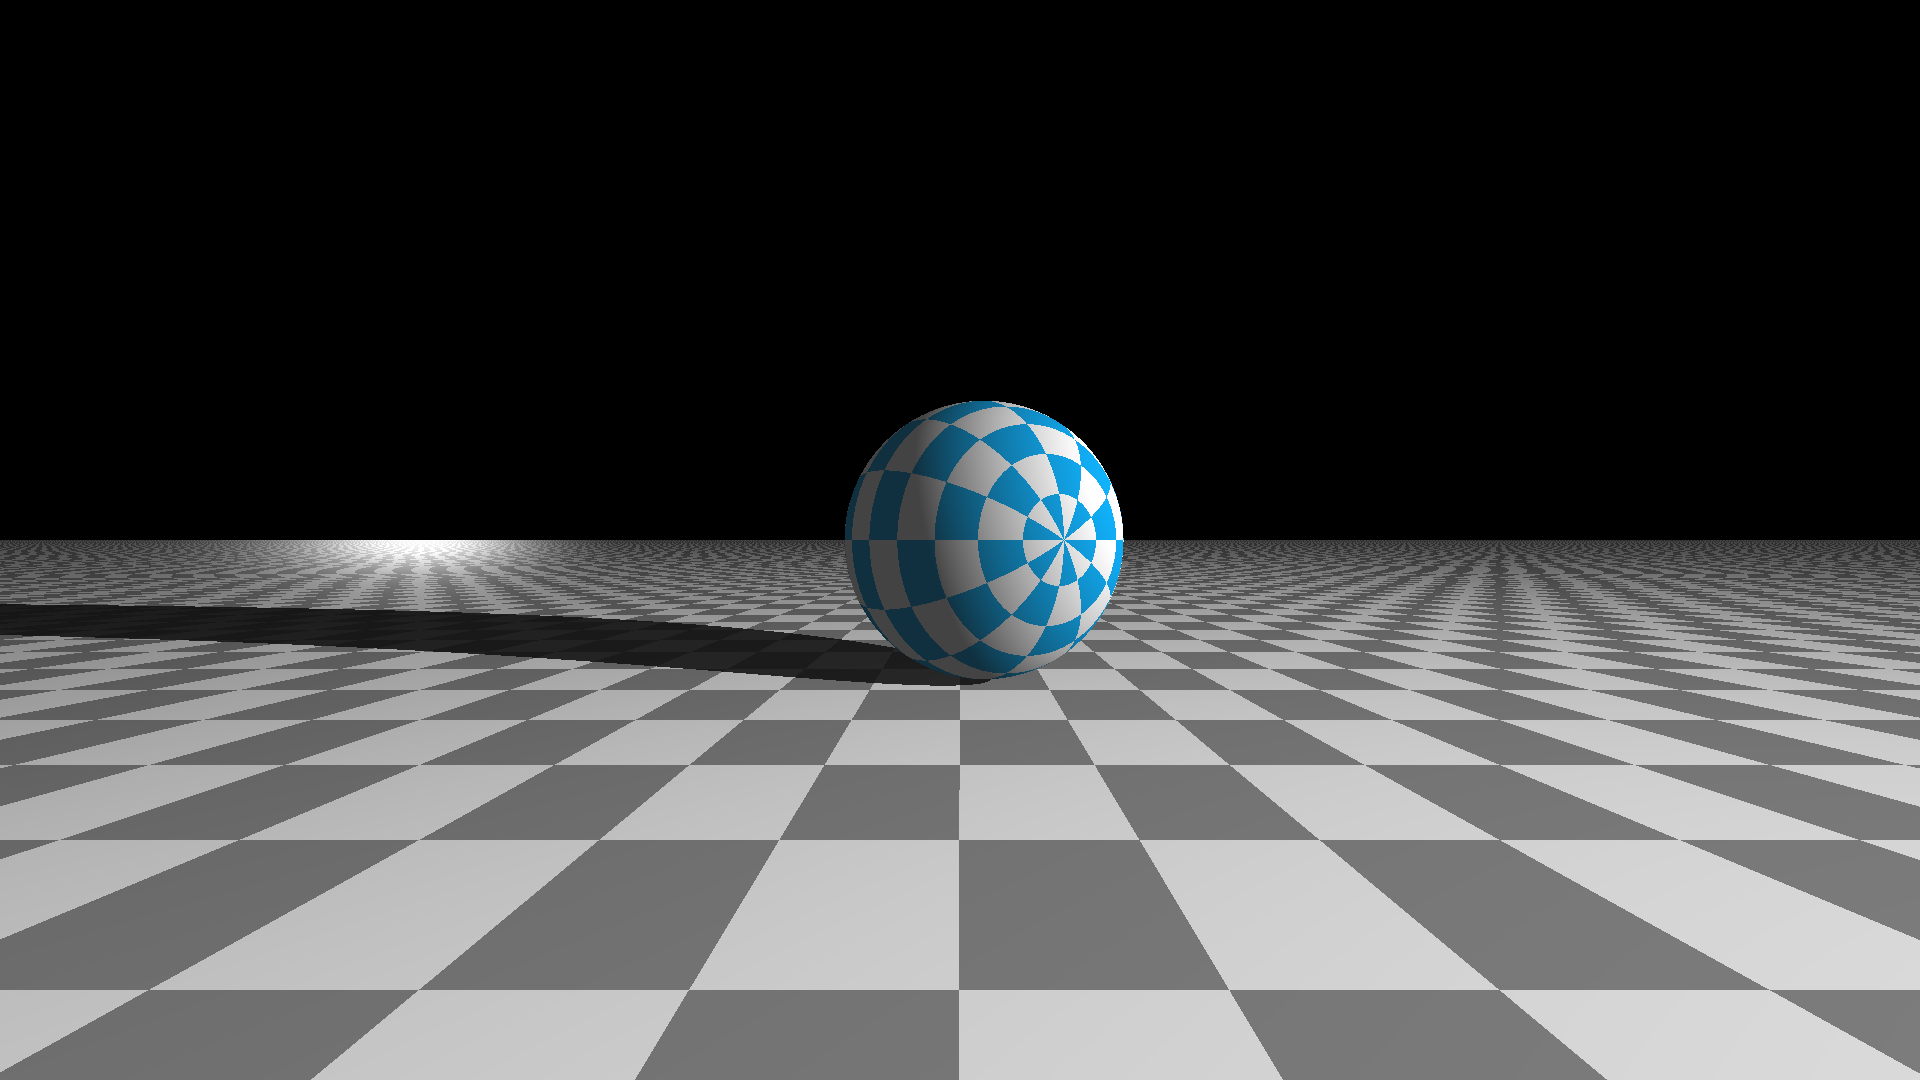
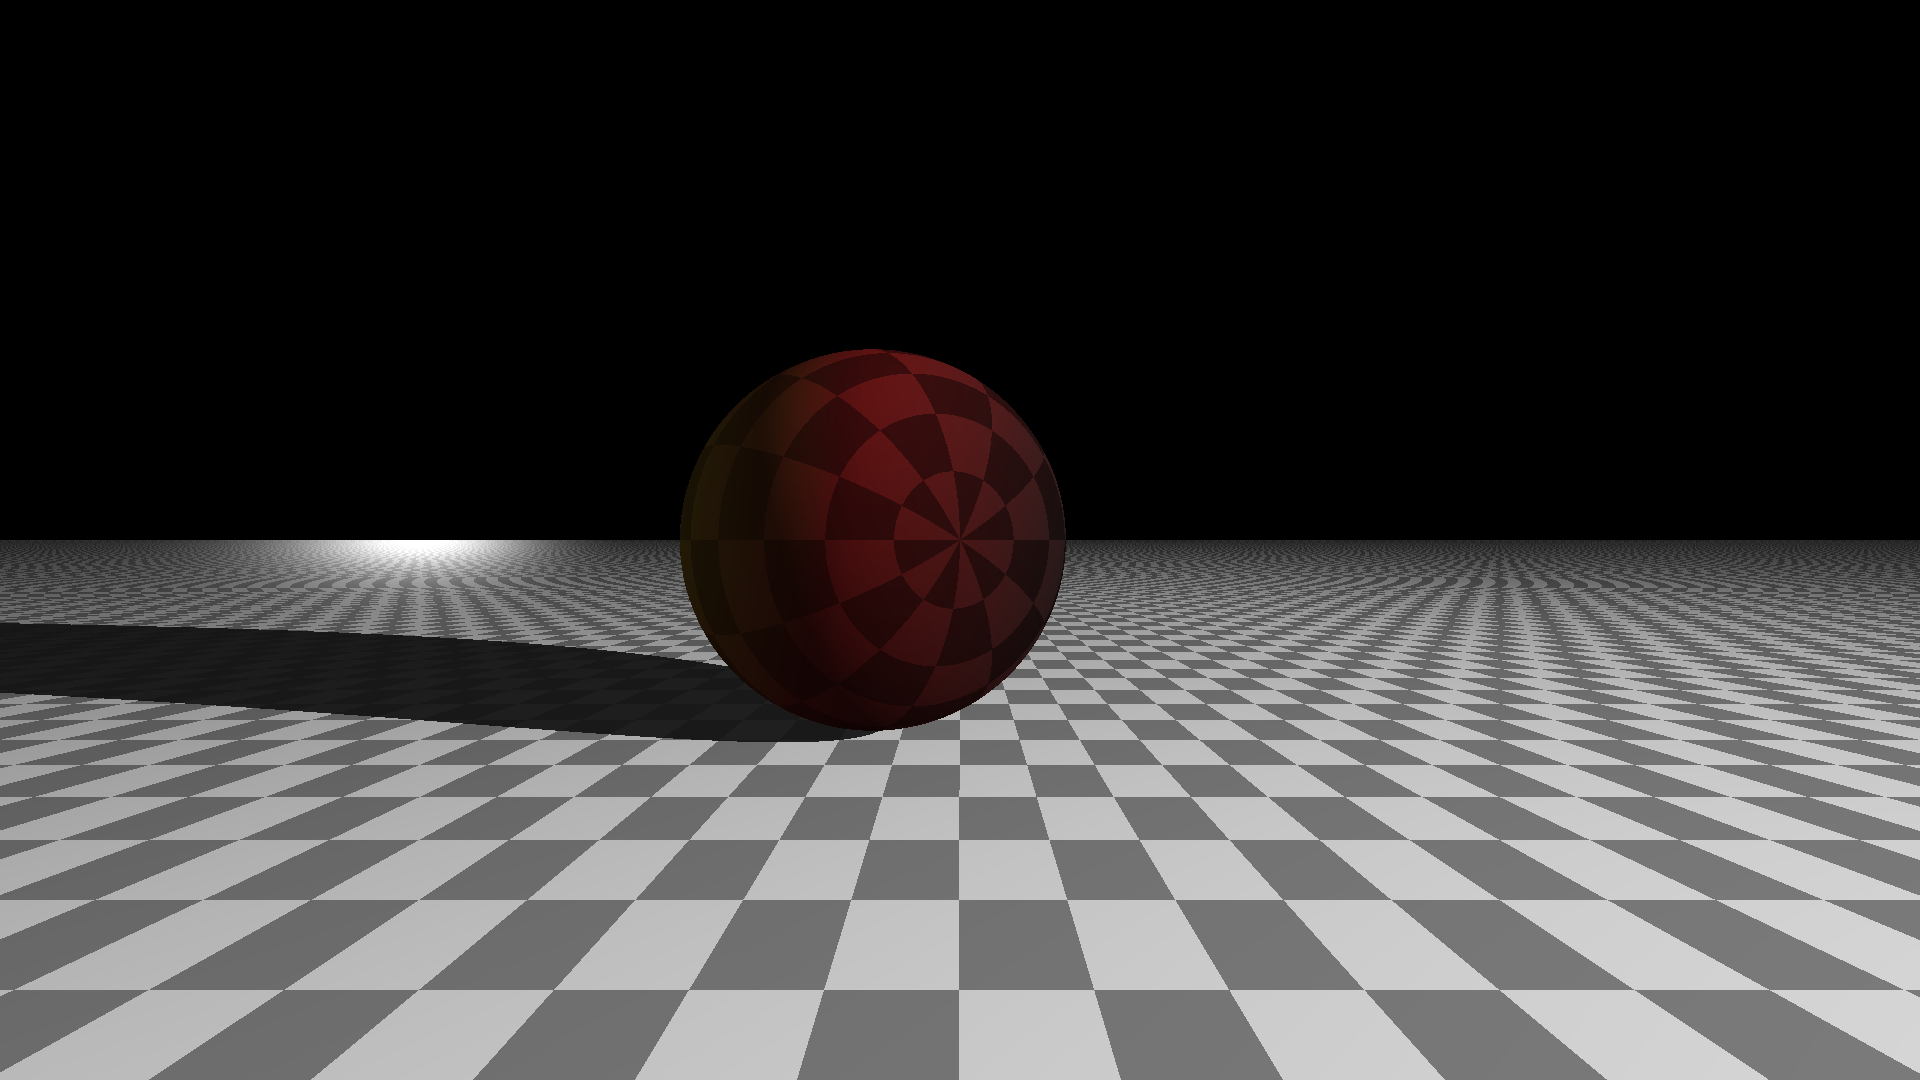
support Doppler Effect
Doppler Effect Supported Now !

diff --git a/my_raytracer.py b/my_raytracer.py
@@ -9,7 +9,7 @@
 from util import *
 
 class Material:
-    def __init__(self, gloss= 700, mirror= 0.5, ambient= rgb(0.08, 0.08, 0.08), shadow= .2, diffuse_combination= 0):
+    def __init__(self, gloss= 700, mirror= 0.5, ambient= rgb(0.08, 0.08, 0.08), shadow= .1, diffuse_combination= .1):
         self.gloss= gloss
         self.mirror= mirror
         self.ambient= ambient
@@ -28,7 +28,7 @@ class Shape(ABC):
         '''法向量'''
     @abstractmethod
     def get_intersection(self, starts: vec4, directions: vec4, inverted_trace):
-        '''交点。注意规范：没有交点的射线要返回 vec4(nan, nan, nan, nan) 鸭！'''
+        '''交点。注意规范：没有交点的射线要返回 vec4(nan, nan, nan, nan) ！'''
     def get_diffuse_color(self, Intersections: vec4):
         '''散射颜色'''
         color= self.diffuse_color_function(Intersections.vec3())#.extract(hit))
@@ -247,6 +247,10 @@ class MovingObject:
         self.u= np.sqrt(self.beta.dot(self.beta))# 速率
         self.offset = offset
         self.material= material
+    def set_beta(self, beta):
+        self.beta = np.array(beta)
+        self.v= vec3(*self.beta)
+        self.u= np.sqrt(self.beta.dot(self.beta))# 速率
     def transform_ray_from_ether(self, start_ether: vec4, direction_ether: vec4):
         boost_matrix= lorentz_boost(self.beta)
         start_obj= (start_ether - self.offset).apply_matrix(boost_matrix)
@@ -303,24 +307,27 @@ class MovingObject:
                 MtoO_obj= self.transform_point_from_ether(MtoO).vec3().normalize()
                 phong = N_obj.dot((MtoL_obj + MtoO_obj).normalize())
                 color += rgb(1, 1, 1) * np.power(np.clip(phong, 0, 1), self.material.gloss/4) * seelight
-            
-            # HeadLight Effect
-            x0=(-MtoO-light).vec3()   # 在物体系下光发出点的四维坐标
-            cosθ1= self.v.dot(x0)/np.sqrt((self.v.dot(self.v)) * (x0.dot(x0)))
-            headlight_factor1= np.sqrt(1-self.v.dot(self.v))/(1 - self.u * cosθ1 )
-            color= color * headlight_factor1
 
             # Combination  纯个人审美，我觉得整体提高亮度不至于太黑会更好看
-            #color = color * (1 - self.material.diffuse_combination) + diffuse_color * seelight * self.material.diffuse_combination
-        
+            color = color * (1 - self.material.diffuse_combination) + diffuse_color * seelight * self.material.diffuse_combination
         else:
-            color= diffuse_color * np.where(seelight,1,0.2)
-
+            color= diffuse_color# * np.where(seelight,1,0.2)
+        
         # HeadLight Effect
+        x0=(-MtoO-light).vec3()
+        ucosθ1= self.v.dot(x0)/np.sqrt(x0.dot(x0))
+        headlight_factor1= np.sqrt(1-self.v.dot(self.v))/(1 - ucosθ1 )
+
         x00= MtoO.vec3()
-        cosθ2= x00.dot(self.v)/np.sqrt(self.v.dot(self.v)*x00.dot(x00))
-        headlight_factor2= np.sqrt(1-self.v.dot(self.v))/(1 + self.u * cosθ2 )
-        color= color * headlight_factor2
+        ucosθ2= x00.dot(self.v)/np.sqrt(x00.dot(x00))
+        headlight_factor2= np.sqrt(1-self.v.dot(self.v))/(1 + ucosθ2 )
+        headlight_factor= headlight_factor1 * headlight_factor2
+
+        color= color * headlight_factor
+
+        # Doppler Effect
+        doppler_factor= headlight_factor
+        color= color.Doppler(doppler_factor)
         
         return color
 
@@ -436,42 +443,3 @@ class Scene:
             self.generate_image(shot_time, os.path.join(Dir, f"{int(frame_count)}.png"))
             t1= time.time()
             print("预计剩余%i分钟" % ((t1-t00)/frame_count*(frames-frame_count)/60) )
-
-if __name__ == '__main__':
-    (width, height) = (1920, 1080)      # 屏幕尺寸
-    resolution= height/width
-    light_pos = vec3(-2, 2, -2)          # 点光源位置
-    center = vec4(0, 0, 0, 0)         # 摄像机位置
-    focal_length= 200
-    shape1= Cylinder(vec3(0, .5, .5), vec3(0, -.5, .5), .5, lambda p: rgb(0.8,0,0.5))
-    shape2 = Sphere(.5, get_checkerboard_color_func(rgb(0,0.5,0), rgb(1,1,1)))
-    shape3 = Sphere(999999999, lambda p: rgb(0.5,0.5,0.5))#util.get_checkerboard_color_func(rgb(0,.05,.05),rgb(.5,.5,.5), 9999999999))
-    shape4 = RectangularPrism(1, 1, 1, .01)
-    shape5 = CompositeShape([shape1, shape2])
-    beta = (0.1, 0, 0)
-    offset1 = vec4(0, -.5, 0, 2)
-    offset2 = vec4(0, .4, 0, 1.6)
-    offset3 = vec4(0, 0, -999999999.5, 2)
-
-    movingobjects= [MovingObject(shape4, beta, vec4(0, 0, 0, 2), None)]#[MovingObject(shape2, beta, offset2, Material(500)), MovingObject(shape3, (0,0,0), offset3, None)]
-
-    camera_height= 200
-    camera_width= camera_height/resolution
-    S = (-camera_width, camera_height, camera_width, -camera_height)
-    x= np.tile(np.linspace(S[0], S[2], width), height)     # [1,2,3,4,1,2,3,4,1,2,3,4]
-    y= np.repeat(np.linspace(S[1], S[3], height), width)   # [1,1,1,1,2,2,2,2,3,3,3,3]
-    z= focal_length
-    origin_to_image_times= abs(vec4(0,x,y,z))
-
-    t_start= time.time()
-    frames= 250
-    for shot_time, frame_count in np.linspace([-30,1],[30,frames], frames):
-        start= center + vec4(shot_time, 0, 0, 0)# 光线的端点
-        directions= vec4(-origin_to_image_times, x, y, z) # 仅仅表示光线的方向
-        print('开始渲染第%s帧' % int(frame_count))
-        t0 = time.time()
-        color = rgb(0,0,0)*np.repeat(0,width*height) + raytrace(start, directions, movingobjects, light_pos)
-        print("  耗时%f，预计剩余%i分钟"%(time.time()-t0, (time.time()-t_start)/frame_count*(frames-frame_count)/60))
-        filename= ".\\render2\\%i.png" % frame_count
-        file_color = [Image.fromarray((255 * np.clip(c, 0, 1).reshape((height, width))).astype(np.uint8), "L") for c in color.components()]
-        Image.merge("RGB", file_color).save(filename)

diff --git a/example_animation.py b/example_animation.py
@@ -1,18 +1,25 @@
+from scipy.fftpack import diff
 from my_raytracer import *
 
-#shape1= Sphere(.5, get_checkerboard_color_func(BILIBILIBLUE, WHITE))
-shape1= Cube(.5,.5,.5,lambda p: RED_A)
-shape2= Plane(vec3(0,0,0), vec3(0,1,0), diffuse_color_function= get_cubical_checkerboard_color_func(GREY, WHITE, .3))
-beta1 = (0, 0, -0.1)
+shape1= Sphere(.5, get_checkerboard_color_func(WHITE, GRAY))
+#shape1= Cube(1,1,1, get_cubical_checkerboard_color_func(RED_E, WHITE, .1))
+shape2= Plane(vec3(0,0,0), vec3(0,1,0), diffuse_color_function= get_cubical_checkerboard_color_func(GREY, WHITE, .15))
+beta1 = (0, 0, 0)
 beta2 = (0, 0, 0)
-offset1 = vec4(0, 0, 0, 2)
+offset1 = vec4(0, 0, 0, 1.5)
 offset2 = vec4(0, 0, -.5, 0)
 
 object1= MovingObject(shape1, beta1, offset1)
 object2= MovingObject(shape2, beta2, offset2)
-movingobjects= [object1]
+movingobjects= [object1, object2]
 
 scene= Scene(movingobjects)
-file_name= scene.generate_image(0)
-os.startfile(file_name)
-input('...')
+frames= 10
+t00= time.time()
+for u, frame_count in np.linspace([0,1],[0.5,frames], frames):
+    print('开始渲染第%s帧...' % int(frame_count), end= '')
+    object1.set_beta((u, 0, 0))
+    scene.generate_image(1, os.path.join('./render', f"{int(frame_count)}.png"))
+    t1= time.time()
+    print("预计剩余%i分钟" % ((t1-t00)/frame_count*(frames-frame_count)/60))
+print('渲染完成')

diff --git a/util.py b/util.py
@@ -98,7 +98,33 @@ class vec3():
         return r
     def vec4(self, t):
         return vec4(t, self.x, self.y, self.z)
-rgb=vec3
+
+    def SPD(self, f): # spectral power distribution
+        cr= self.x
+        cg= self.y
+        cb= self.z
+        c= np.where(
+            f < FRC, 0.2*cr,
+            np.where(
+                np.logical_and(FRC<=f, f<FR), 0.8 * cr * (FRC - f)/(FRC - FR) + 0.2 * cr,
+                np.where(
+                    np.logical_and(FR <= f, f < FG), cg + (cr - cg) * ((FR/f)*FG - FR)/(FG - FR),
+                    np.where(
+                        np.logical_and(FG <= f, f < FB), cb + (cg - cb) * ((FG/f)*FB - FG)/(FB - FG),
+                        np.where(
+                            np.logical_and(FB <= f, f < FBC), 0.8 * cb * (FBC - f)/(FBC - FB) + 0.2 * cb,
+                            0.2*cb
+                        )
+                    )
+                )
+            )
+        )
+        return c
+    
+    def Doppler(self, factor):
+        return rgb(self.SPD(FR/factor), self.SPD(FG/factor), self.SPD(FB/factor))
+
+rgb= vec3
 
 def quadratic_eqn_roots(a, b, c):
 
@@ -202,6 +228,12 @@ def timeit(func):
         return output
     return time_func
 
+# Constants
+FR= 4.3 # Unit: 10^14 Hz
+FG= 5.7
+FB= 6.8
+FBC= 8.8
+FRC= 3.8
 FARAWAY= 1.0e39
 DEFAUT_CAMERA_HEIGHT= 200
 DEFAUT_FOCAL_LENGTH= 200
